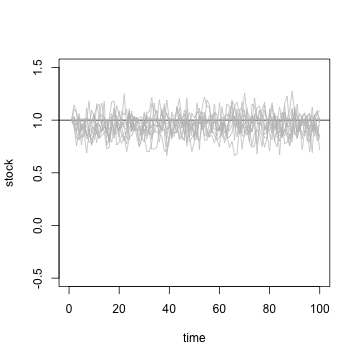
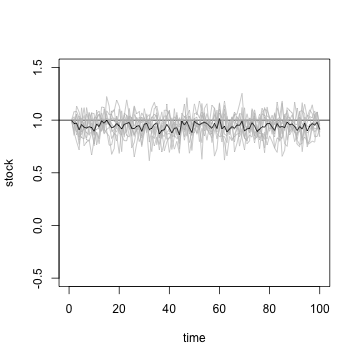
added lik/bayes naive sampling

Changed region(s): [[0.1833, 0.2444, 0.8861, 0.4278]]

diff --git a/monitoring.md b/monitoring.md
@@ -76,9 +76,197 @@ Time:
 Tradeoff from status (left) to trend (right) with constant effort 
 >From Deutschman et al 2008 Tech Rpt.
 
-### Bayesian example: random walk ###
 
-### power ###
+### Applied  ###
+
+  
+
+
+## Other issues ##
+
+* power
+* identifiability              
+              
+### Example###
+
+
+**Likelihood**
+  
+```
+## Warning message: sd(<matrix>) is deprecated.
+##  Use apply(*, 2, sd) instead.
+```
+```
+## Warning message: NaNs produced
+```
+```
+## Warning message: NaNs produced
+```
+```
+## Warning message: sd(<matrix>) is deprecated.
+##  Use apply(*, 2, sd) instead.
+```
+```
+## Warning message: NaNs produced
+```
+```
+## Warning message: NaNs produced
+```
+```
+## Warning message: sd(<matrix>) is deprecated.
+##  Use apply(*, 2, sd) instead.
+```
+```
+## Warning message: NaNs produced
+```
+```
+## Warning message: NaNs produced
+```
+```
+## Warning message: sd(<matrix>) is deprecated.
+##  Use apply(*, 2, sd) instead.
+```
+```
+## Warning message: NaNs produced
+```
+```
+## Warning message: NaNs produced
+```
+```
+## Warning message: sd(<matrix>) is deprecated.
+##  Use apply(*, 2, sd) instead.
+```
+```
+## Warning message: NaNs produced
+```
+```
+## Warning message: sd(<matrix>) is deprecated.
+##  Use apply(*, 2, sd) instead.
+```
+```
+## Warning message: NaNs produced
+```
+```
+## Warning message: sd(<matrix>) is deprecated.
+##  Use apply(*, 2, sd) instead.
+```
+```
+## Warning message: NaNs produced
+```
+```
+## Warning message: sd(<matrix>) is deprecated.
+##  Use apply(*, 2, sd) instead.
+```
+```
+## Warning message: NaNs produced
+```
+```
+## Warning message: sd(<matrix>) is deprecated.
+##  Use apply(*, 2, sd) instead.
+```
+```
+## Warning message: NaNs produced
+```
+```
+## Warning message: NaNs produced
+```
+![plot of chunk est-recov-lik](https://github.com/ashander/sandbox/raw/master/est-recov-lik.png)
+
+  
+Likelihood-based, treated like independent samples (no population model)
+
+
+
+**Bayes**
+  
+```
+## Warning message: sd(<matrix>) is deprecated.
+##  Use apply(*, 2, sd) instead.
+```
+```
+## Warning message: NaNs produced
+```
+```
+## Warning message: NaNs produced
+```
+```
+## Warning message: NaNs produced
+```
+```
+## Warning message: sd(<matrix>) is deprecated.
+##  Use apply(*, 2, sd) instead.
+```
+```
+## Warning message: NaNs produced
+```
+```
+## Warning message: NaNs produced
+```
+```
+## Warning message: NaNs produced
+```
+```
+## Warning message: sd(<matrix>) is deprecated.
+##  Use apply(*, 2, sd) instead.
+```
+```
+## Warning message: NaNs produced
+```
+```
+## Warning message: NaNs produced
+```
+```
+## Warning message: sd(<matrix>) is deprecated.
+##  Use apply(*, 2, sd) instead.
+```
+```
+## Warning message: NaNs produced
+```
+```
+## Warning message: NaNs produced
+```
+```
+## Warning message: sd(<matrix>) is deprecated.
+##  Use apply(*, 2, sd) instead.
+```
+```
+## Warning message: NaNs produced
+```
+```
+## Warning message: sd(<matrix>) is deprecated.
+##  Use apply(*, 2, sd) instead.
+```
+```
+## Warning message: NaNs produced
+```
+```
+## Warning message: sd(<matrix>) is deprecated.
+##  Use apply(*, 2, sd) instead.
+```
+```
+## Warning message: NaNs produced
+```
+```
+## Warning message: sd(<matrix>) is deprecated.
+##  Use apply(*, 2, sd) instead.
+```
+```
+## Warning message: NaNs produced
+```
+```
+## Warning message: sd(<matrix>) is deprecated.
+##  Use apply(*, 2, sd) instead.
+```
+```
+## Warning message: NaNs produced
+```
+![plot of chunk est-recov-lik](https://github.com/ashander/sandbox/raw/master/est-recov-lik.png)
+
+  
+Bayesian from independent samples
+
+
+  
 
 # Knitr #
 
@@ -93,4 +281,14 @@ knit(paste(getwd(), "monitoring_knit_.md", sep = "/"))
 ```
 
 
+
+
+
+  <!--begin.rcode bb,echo=FALSE,cache=TRUE,eval=FALSE
+
+for(i in 1:10){
+  l <- lm(r.d[,i]~time, data=r.d)
+  coef(l)
+  
+}
 

diff --git a/monitoring_knit_.md b/monitoring_knit_.md
@@ -38,6 +38,7 @@ sigma = 0.1
 a = 10
 b = 9
 FISH=0.3
+TIME=1:100
 params = c(a,b,sigma)
 
 
@@ -46,7 +47,13 @@ poprep=function(init){x=numeric(100); x[1]=init; for(i in 1:99){x[i+1] = pop.bh(
 outs = sapply(rep(1,REPS), poprep)
 plot(0,0, pch='', ylim=c(-.5,1.5),xlim=c(0,100), xlab='time', ylab='stock')
 abline(h=(a-1)/b)
-for(i in 1:dim(outs)[2]){lines(1:100,outs[,i],col=col.alpha('grey',0.9))}
+for(i in 1:dim(outs)[2]){lines(TIME,outs[,i],col=col.alpha('grey',0.9))}
+lines(TIME,rowMeans(outs))
+
+
+f.d <- as.data.frame(outs)
+names(r.f) = paste("pop", 1:REPS, sep='')
+f.d$time = TIME
 
 end.rcode-->
 
@@ -63,9 +70,16 @@ REPS=10
 
 poprep=function(init){x=numeric(100); x[1]=init; for(i in 1:99){x[i+1] = pop.bh(x[i], h=FISH,p=params)}; return(x)}
 outs = sapply(rep(0.1,REPS), poprep)
+
 plot(0,0, pch='', ylim=c(-.5,1.5),xlim=c(0,100), xlab='time', ylab='population')
 abline(h=(a-1)/b)
-for(i in 1:dim(outs)[2]){lines(1:100,outs[,i],col=col.alpha('grey',0.9))}
+for(i in 1:dim(outs)[2]){lines(TIME,outs[,i],col=col.alpha('grey',0.9))}
+lines(TIME,rowMeans(outs))
+
+r.d <- as.data.frame(outs)
+names(r.d) = paste("pop", 1:REPS,sep='')
+r.d$time <- TIME
+
 end.rcode-->
 
 ## Issues in mointoring populations ##
@@ -109,9 +123,79 @@ Time:
 Tradeoff from status (left) to trend (right) with constant effort 
 >From Deutschman et al 2008 Tech Rpt.
 
-### Bayesian example: random walk ###
 
-### power ###
+### Applied  ###
+
+  
+
+
+## Other issues ##
+
+* power
+* identifiability              
+              
+### Example###
+
+
+**Likelihood**
+  
+<!--begin.rcode est-recov-lik,echo=FALSE,cache=TRUE  
+require(bbmle)
+time =10
+
+require(ggplot2)
+r.m <- melt(r.d, id.vars=c('time'))
+g <- ggplot()+geom_point(aes(time, value), color='darkgrey', data=r.m)
+
+
+
+for(time in 1:9*10){
+  sub.d <- list(tot=t(sample(r.d[time,1:10], size=5)))
+  ml.t <- mle2(tot~dnorm(mean=mu, sd=sigma), data=sub.d, start=list(mu=mean(sub.d$tot), sigma=sd(sub.d$tot)))
+  post.t <- sample.naive.posterior(ml.t)
+  post.t$time = time
+  g <- g + geom_boxplot(aes(time, mu), data=post.t)
+         
+}
+g
+
+end.rcode-->
+  
+Likelihood-based, treated like independent samples (no population model)
+
+
+
+**Bayes**
+  
+<!--begin.rcode est-recov-lik,echo=FALSE,cache=TRUE  
+require(bbmle)
+time =10
+
+require(ggplot2)
+r.m <- melt(r.d, id.vars=c('time'))
+g <- ggplot()+geom_point(aes(time, value), color='darkgrey', data=r.m)
+
+prior <- NULL
+for(time in 1:9*10){
+  sub.d <- list(tot=t(sample(r.d[time,1:10], size=5)))
+  ml.t <- mle2(tot~dnorm(mean=mu, sd=sigma), data=sub.d, start=list(mu=mean(sub.d$tot), sigma=sd(sub.d$tot)))
+  post.t <- sample.naive.posterior(ml.t)
+  if(is.null(prior)){
+    prior <- c(coef(ml.t)['mu'], coef(ml.t)['sigma'])
+    post.t$mu <- sample(post.t$mu, replace=TRUE, prob=dnorm(post.t$mu, mean=prior[1], sd=prior[2]))
+  }
+  post.t$time = time
+  g <- g + geom_boxplot(aes(time, mu), data=post.t)
+         
+}
+g
+
+end.rcode-->
+  
+Bayesian from independent samples
+
+
+  
 
 # Knitr #
 
@@ -124,4 +208,6 @@ require(knitr)
 opts_knit$set(out.format='gfm',base.url="https://github.com/ashander/sandbox/raw/master/")
 knit(paste(getwd(),'monitoring_knit_.md',sep='/'))
 end.rcode-->
+
+
 
